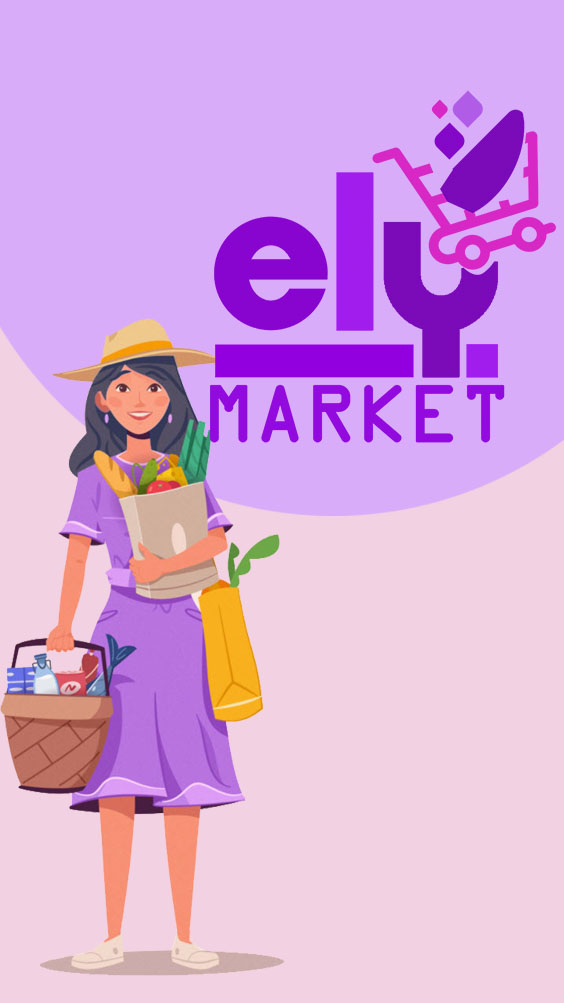
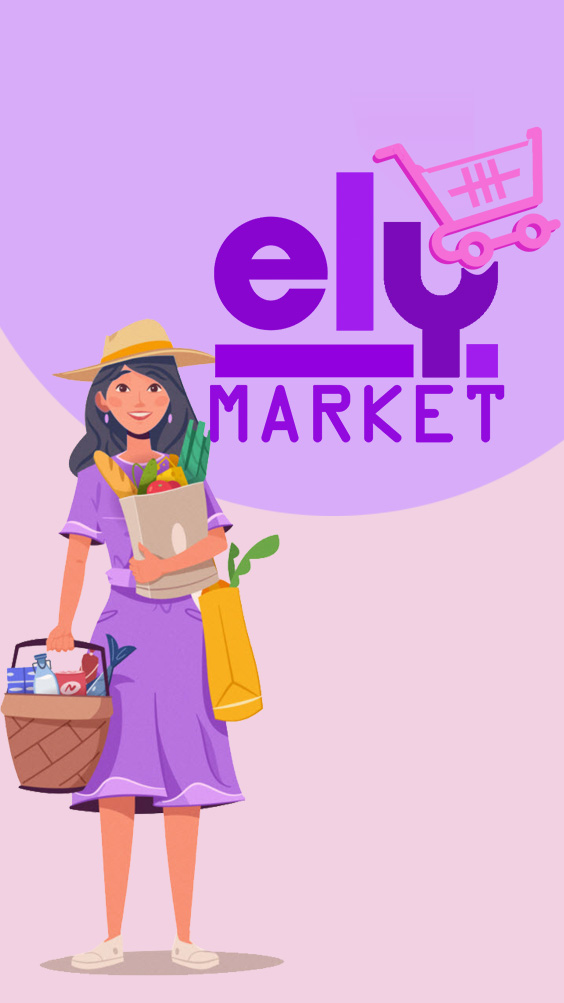
Se realizo el cambio del icono de la app, y el bottomNavigation del menu

Changed region(s): [[0.6631, 0.0927, 0.9947, 0.2782]]

diff --git a/lib/pantallas/menu_page.dart b/lib/pantallas/menu_page.dart
@@ -1,4 +1,5 @@
 import 'package:eli_market/pantallas/lista_producto_page.dart';
+import 'package:flutter/gestures.dart';
 import 'package:flutter/material.dart';
 import 'package:flutter_svg/flutter_svg.dart';
 
@@ -16,7 +17,9 @@ class MenuPage extends StatelessWidget {
     //   "Duraznos",
     //   "Mandarina"
     // ];
+    Size tamanio = MediaQuery.of(context).size;
     return Scaffold(
+      backgroundColor: kPrimaryColor,
       appBar: AppBar(
         backgroundColor: kPrimaryColor,
         elevation: 0,
@@ -27,53 +30,81 @@ class MenuPage extends StatelessWidget {
             Navigator.pop(context);
           },
         ),
-        actions: [
-          IconButton(
-            icon: SvgPicture.asset(
-              "assets/icons/search.svg",
-              color: kIconPrimaryColor,
-            ),
-            onPressed: () {},
-          ),
-          IconButton(
-              icon: SvgPicture.asset(
-                "assets/icons/cart.svg",
-                color: kIconPrimaryColor,
-              ),
-              onPressed: () {}),
-          SizedBox(
-            width: 10.0,
-          ),
-        ],
+        // actions: [
+        //   IconButton(
+        //     icon: SvgPicture.asset(
+        //       "assets/icons/search.svg",
+        //       color: kIconPrimaryColor,
+        //     ),
+        //     onPressed: () {},
+        //   ),
+        //   IconButton(
+        //       icon: SvgPicture.asset(
+        //         "assets/icons/cart.svg",
+        //         color: kIconPrimaryColor,
+        //       ),
+        //       onPressed: () {}),
+        //   SizedBox(
+        //     width: 10.0,
+        //   ),
+        // ],
         title: Text(
-          "",
-          style: TextStyle(color: kTextoLigthColor),
+          "Categorias",
+          style:
+              TextStyle(color: kTextoLigthColor, fontWeight: FontWeight.bold),
+        ),
+        centerTitle: true,
+      ),
+      body: Container(
+        margin: EdgeInsets.only(top: 15.0),
+        padding: EdgeInsets.only(top: 5.0),
+        decoration: BoxDecoration(
+            color: Colors.white,
+            borderRadius: BorderRadius.only(
+                topLeft: Radius.circular(30.0),
+                topRight: Radius.circular(30.0))),
+        child: ClipRRect(
+          borderRadius: BorderRadius.only(
+              topLeft: Radius.circular(30.0), topRight: Radius.circular(30.0)),
+          child: Column(
+            children: [
+              FutureBuilder(
+                  future: DataBaseHelper.db.obtieneCategoria(),
+                  builder: (BuildContext context,
+                      AsyncSnapshot<List<Categoria>> snapshot) {
+                    if (snapshot.connectionState == ConnectionState.waiting) {
+                      return Center(child: CircularProgressIndicator());
+                    } else {
+                      return _listaMenuCategoria(snapshot.data);
+                    }
+                  }),
+            ],
+          ),
         ),
       ),
-      body: Column(
-        children: [
-          SizedBox(
-            height: 10.0,
-          ),
-          FutureBuilder(
-              future: DataBaseHelper.db.obtieneCategoria(),
-              builder: (BuildContext context,
-                  AsyncSnapshot<List<Categoria>> snapshot) {
-                if (snapshot.connectionState == ConnectionState.waiting) {
-                  return Center(child: CircularProgressIndicator());
-                } else {
-                  return _listaMenuCategoria(snapshot.data);
-                }
-              }),
-        ],
+      floatingActionButton: FloatingActionButton(
+        foregroundColor: kPrimaryColor,
+        backgroundColor: Colors.white,
+        shape: CircleBorder(
+          side: BorderSide(width: 5.0, color: kPrimaryColor),
+        ),
+        onPressed: () {},
+        child: Icon(
+          Icons.post_add_rounded,
+          size: 30.0,
+        ),
       ),
+      floatingActionButtonLocation: FloatingActionButtonLocation.centerDocked,
+      bottomNavigationBar: botonesBar(context, tamanio),
     );
   }
 
   Widget _listaMenuCategoria(List<Categoria> listaCategoria) {
     return Expanded(
       child: Container(
-        padding: EdgeInsets.symmetric(horizontal: kDefaultPaddin),
+        padding: EdgeInsets.symmetric(
+          horizontal: kDefaultPaddin,
+        ),
         child: GridView.builder(
             itemCount: listaCategoria.length,
             gridDelegate: SliverGridDelegateWithFixedCrossAxisCount(
@@ -118,6 +149,80 @@ class MenuPage extends StatelessWidget {
             ),
           )
         ],
+      ),
+    );
+  }
+
+  Widget botonesBar(BuildContext context, Size pTamanio) {
+    return Container(
+      color: Colors.white,
+      child: BottomAppBar(
+        shape: CircularNotchedRectangle(),
+        notchMargin: 10.0,
+        color: Colors.transparent,
+        elevation: 10.0,
+        clipBehavior: Clip.antiAlias,
+        child: Container(
+          height: 50.0,
+          decoration: BoxDecoration(
+              borderRadius: BorderRadius.only(
+                  topLeft: Radius.circular(25.0),
+                  topRight: Radius.circular(25.0)),
+              color: kPrimaryColor),
+          child: Row(
+            mainAxisAlignment: MainAxisAlignment.spaceBetween,
+            children: [
+              Container(
+                height: 50.0,
+                width: pTamanio.width / 2 - 30,
+                child: Row(
+                  mainAxisAlignment: MainAxisAlignment.spaceEvenly,
+                  children: [
+                    IconButton(
+                      icon: Icon(
+                        Icons.home_rounded,
+                        color: Colors.white,
+                      ),
+                      onPressed: () {
+                        // print("Hola");
+                      },
+                    ),
+                    IconButton(
+                      icon: Icon(
+                        Icons.search_sharp,
+                        color: Colors.white,
+                      ),
+                      onPressed: () {},
+                    ),
+                  ],
+                ),
+              ),
+              Container(
+                height: 50.0,
+                width: pTamanio.width / 2 - 30,
+                child: Row(
+                  mainAxisAlignment: MainAxisAlignment.spaceEvenly,
+                  children: [
+                    IconButton(
+                      icon: Icon(
+                        Icons.person,
+                        color: Colors.white,
+                      ),
+                      onPressed: () {},
+                    ),
+                    IconButton(
+                      icon: Icon(
+                        Icons.exit_to_app,
+                        color: Colors.white,
+                      ),
+                      onPressed: () {},
+                    ),
+                  ],
+                ),
+              ),
+            ],
+          ),
+        ),
       ),
     );
   }

diff --git a/lib/main.dart b/lib/main.dart
@@ -4,6 +4,7 @@ import 'package:flutter/material.dart';
 import 'package:eli_market/pantallas/bienvenida_page.dart';
 import 'package:eli_market/pantallas/menu_page.dart';
 import 'package:eli_market/pantallas/creditos_page.dart';
+import 'package:flutter/services.dart';
 
 void main() {
   runApp(MyApp());
@@ -13,6 +14,9 @@ class MyApp extends StatelessWidget {
   // This widget is the root of your application.
   @override
   Widget build(BuildContext context) {
+    // bloquea la orientacion de la pantalla solo a Vertical.
+    SystemChrome.setPreferredOrientations(
+        [DeviceOrientation.portraitUp, DeviceOrientation.portraitDown]);
     return MaterialApp(
       debugShowCheckedModeBanner: false,
       title: 'Ely Market App',

diff --git a/lib/data/database_helper.dart b/lib/data/database_helper.dart
@@ -63,7 +63,7 @@ class DataBaseHelper {
     String path = join(documentoDirectorio.path, DB_NAME);
 
     // Delete the database //TODO: esto luego borrar
-    //await deleteDatabase(path);
+    await deleteDatabase(path);
 
     var db = await openDatabase(path, version: 1, onCreate: _onCreate);
     return db;
